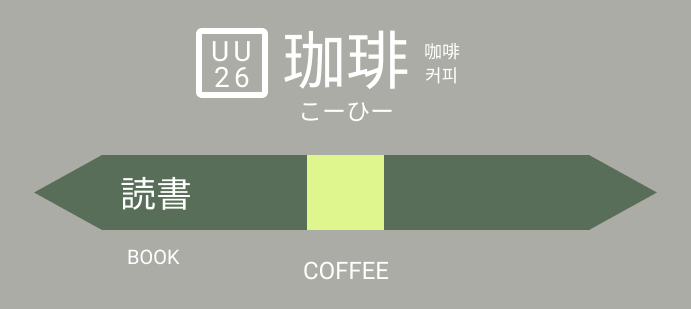
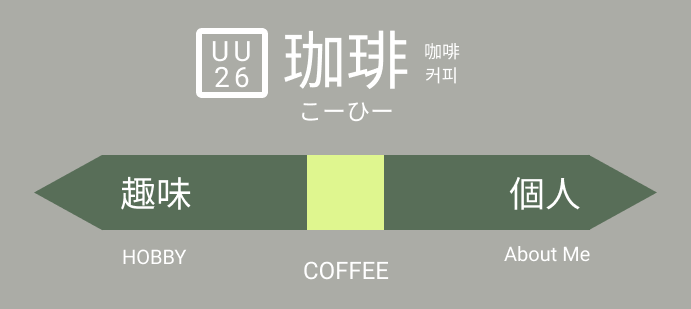
feat 色々修正

diff --git a/header.php b/header.php
@@ -247,21 +247,7 @@
 
                             </div>
 
-                            <div class="d-flex my-2">
-                                <div class="ml-2">
 
-                                    <img
-                                        src="<?php echo get_template_directory_uri(); ?>/img/logo/account_box-24px.svg">
-
-                                </div>
-                                <div class="">
-                                    <a class="dropdown-item mt-2" href="/aboutme">
-
-                                        AboutMe
-                                    </a>
-                                </div>
-
-                            </div>
 
                             <div class="d-flex my-2">
                                 <div class="ml-2">
@@ -278,7 +264,21 @@
 
                             </div>
 
+                            <div class="d-flex my-2">
+                                <div class="ml-2">
 
+                                    <img
+                                        src="<?php echo get_template_directory_uri(); ?>/img/logo/account_box-24px.svg">
+
+                                </div>
+                                <div class="">
+                                    <a class="dropdown-item mt-2" href="/aboutme">
+
+                                        個人
+                                    </a>
+                                </div>
+
+                            </div>
 
 
 
@@ -298,11 +298,14 @@
                                 </div>
 
                             </div>
-                            <div class="dropdown-divider"></div>
-                            <a style="font-size:0.9em;" class="dropdown-item"
-                                href="https://twitter.com/usuyuki26">Twitter</a>
-                            <a style="font-size:0.9em;" class="dropdown-item"
-                                href="https://github.com/Usuyuki">GitHub</a>
+                            <a style="font-size:0.6em;" class="dropdown-item" href="/privacy-policy">プライバシーポリシー</a>
+                            <a href="/privacy-policy">
+                                <div class="dropdown-divider"></div>
+                                <a style="font-size:0.9em;" class="dropdown-item"
+                                    href="https://twitter.com/usuyuki26">Twitter</a>
+                                <a style="font-size:0.9em;" class="dropdown-item"
+                                    href="https://github.com/Usuyuki">GitHub</a>
+
                         </div>
                     </div>
 

diff --git a/sidebar.php b/sidebar.php
@@ -48,16 +48,7 @@
                 </a>
             </div>
 
-            <div class="side-menu-link row text-center my-5">
-                <a href="/aboutme" class="text-decoration-none col">
-                    <div class="side-menu-link-icon mb-2">
-                        <img src="<?php echo get_template_directory_uri(); ?>/img/logo/account_box-24px.svg">
-                    </div>
-                    <div class="side-menu-link-name text-black h5">
-                        <p>AboutMe</p>
-                    </div>
-                </a>
-            </div>
+
 
             <div class="side-menu-link row text-center my-5">
                 <a href="/coffee" class="text-decoration-none col">
@@ -70,7 +61,16 @@
                 </a>
             </div>
 
-
+            <div class="side-menu-link row text-center my-5">
+                <a href="/aboutme" class="text-decoration-none col">
+                    <div class="side-menu-link-icon mb-2">
+                        <img src="<?php echo get_template_directory_uri(); ?>/img/logo/account_box-24px.svg">
+                    </div>
+                    <div class="side-menu-link-name text-black h5">
+                        <p>個人</p>
+                    </div>
+                </a>
+            </div>
 
 
         </div>
